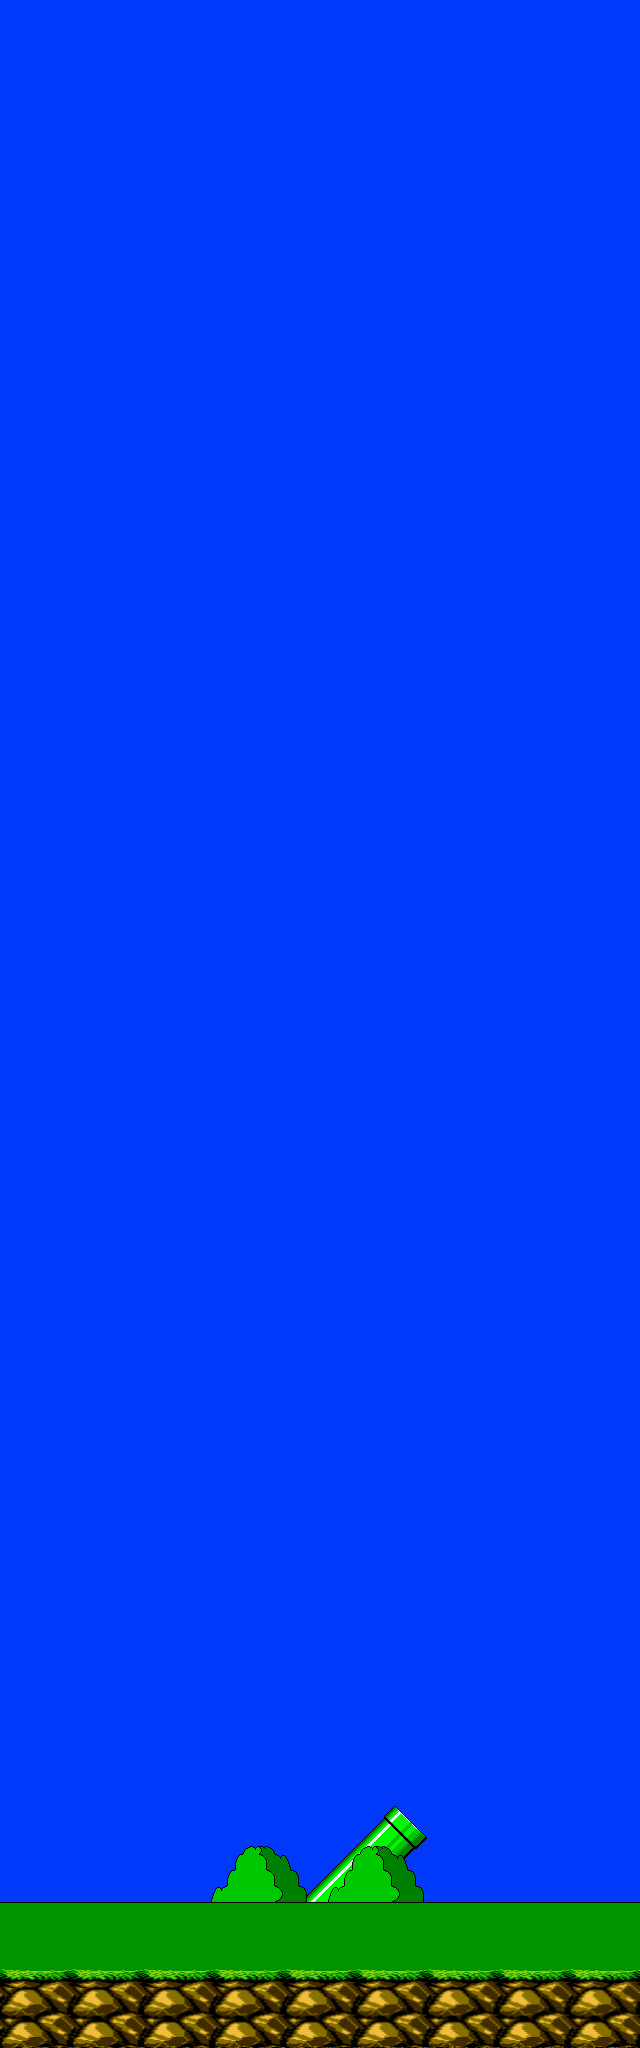
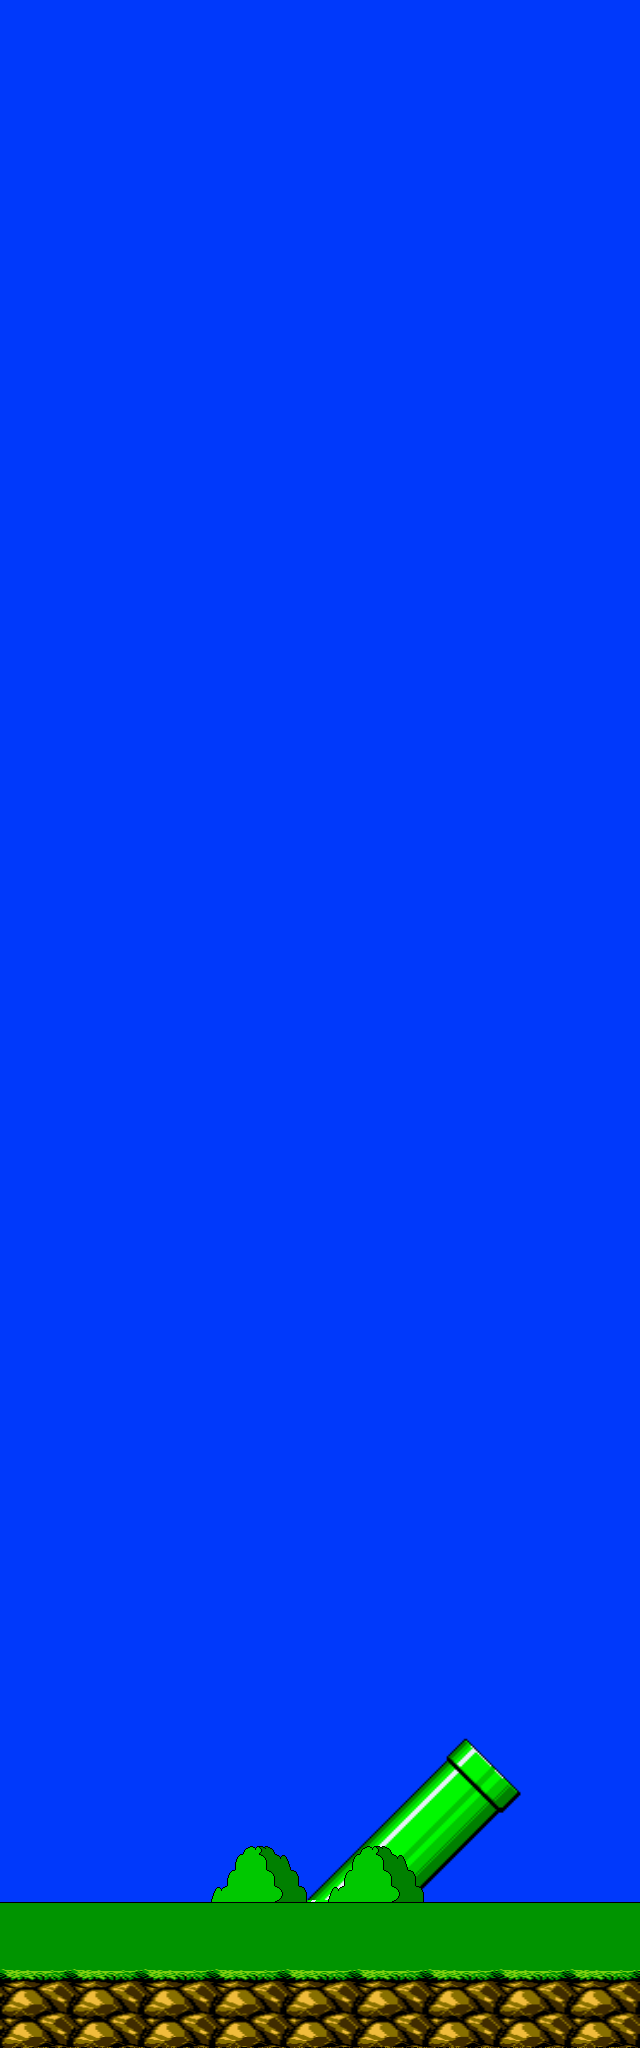
graphics: back3.png, back5-8.png, fixed line bug in the sky, tweeked spawner

Changed region(s): [[0.5625, 0.8438, 0.8125, 0.9375], [0.4688, 0.9062, 0.5625, 0.9375]]

diff --git a/Berzerk/Berzerk/Level.cs b/Berzerk/Berzerk/Level.cs
@@ -23,6 +23,10 @@ namespace Berzerk
         private ScrollingBackground m_back2;
         private ScrollingBackground m_back3;
         private ScrollingBackground m_back4;
+        private ScrollingBackground m_back5;
+        private ScrollingBackground m_back6;
+        private ScrollingBackground m_back7;
+        private ScrollingBackground m_back8;
         // Sky
         private ScrollingBackground m_sky1;
         private ScrollingBackground m_sky2;
@@ -43,7 +47,7 @@ namespace Berzerk
         Vector2             m_batterPos;
 
         // Projectile
-        //Projectile m_projectile;
+        Projectile m_projectile;
  
         // StaticTextures
         Texture2D mineText;
@@ -91,18 +95,22 @@ namespace Berzerk
             m_back2 = new ScrollingBackground(content.Load<Texture2D>("Graphics/Backgrounds/back2"), new Rectangle(640, -1328, 640, 2048));
             m_back3 = new ScrollingBackground(content.Load<Texture2D>("Graphics/Backgrounds/back3"), new Rectangle(1280, -1328, 640, 2048));
             m_back4 = new ScrollingBackground(content.Load<Texture2D>("Graphics/Backgrounds/back4"), new Rectangle(1920, -1328, 640, 2048));
+            m_back5 = new ScrollingBackground(content.Load<Texture2D>("Graphics/Backgrounds/back5"), new Rectangle(2560, -1328, 640, 2048));
+            m_back6 = new ScrollingBackground(content.Load<Texture2D>("Graphics/Backgrounds/back6"), new Rectangle(3200, -1328, 640, 2048));
+            m_back7 = new ScrollingBackground(content.Load<Texture2D>("Graphics/Backgrounds/back7"), new Rectangle(3840, -1328, 640, 2048));
+            m_back8 = new ScrollingBackground(content.Load<Texture2D>("Graphics/Backgrounds/back8"), new Rectangle(4480, -1328, 640, 2048));
             // Sky1
             m_sky1 = new ScrollingBackground(content.Load<Texture2D>("Graphics/Backgrounds/sky"), new Rectangle(0, -3376, 1280, 2048));
             m_sky2 = new ScrollingBackground(content.Load<Texture2D>("Graphics/Backgrounds/sky"), new Rectangle(0, -5424, 1280, 2048));
             m_sky3 = new ScrollingBackground(content.Load<Texture2D>("Graphics/Backgrounds/sky"), new Rectangle(0, -7472, 1280, 2048));
             m_sky4 = new ScrollingBackground(content.Load<Texture2D>("Graphics/Backgrounds/sky"), new Rectangle(0, -9520, 1280, 2048));
             m_sky5 = new ScrollingBackground(content.Load<Texture2D>("Graphics/Backgrounds/sky"), new Rectangle(0, -11560, 1280, 2048));
-            m_sky6 = new ScrollingBackground(content.Load<Texture2D>("Graphics/Backgrounds/sky"), new Rectangle(0, -13616, 1280, 2048));
-            m_sky7 = new ScrollingBackground(content.Load<Texture2D>("Graphics/Backgrounds/sky"), new Rectangle(0, -15664, 1280, 2048));
-            m_sky8 = new ScrollingBackground(content.Load<Texture2D>("Graphics/Backgrounds/sky"), new Rectangle(0, -17712, 1280, 2048));
-            m_sky9 = new ScrollingBackground(content.Load<Texture2D>("Graphics/Backgrounds/sky"), new Rectangle(0, -19760, 1280, 2048));
+            m_sky6 = new ScrollingBackground(content.Load<Texture2D>("Graphics/Backgrounds/sky"), new Rectangle(0, -13606, 1280, 2048));
+            m_sky7 = new ScrollingBackground(content.Load<Texture2D>("Graphics/Backgrounds/sky"), new Rectangle(0, -15654, 1280, 2048));
+            m_sky8 = new ScrollingBackground(content.Load<Texture2D>("Graphics/Backgrounds/sky"), new Rectangle(0, -17702, 1280, 2048));
+            m_sky9 = new ScrollingBackground(content.Load<Texture2D>("Graphics/Backgrounds/sky"), new Rectangle(0, -19750, 1280, 2048));
             // Space
-            m_space1 = new ScrollingBackground(content.Load<Texture2D>("Graphics/Backgrounds/space"), new Rectangle(0, -21808, 1280, 2048));
+            m_space1 = new ScrollingBackground(content.Load<Texture2D>("Graphics/Backgrounds/space"), new Rectangle(0, -21798, 1280, 2048));
 
             m_plateau = new ScrollingBackground(content.Load<Texture2D>("Graphics/Backgrounds/Plateau"), new Rectangle(0, 360, 360, 360));
 
@@ -118,7 +126,7 @@ namespace Berzerk
             waspText  = content.Load<Texture2D>("Graphics/wasp");
             powerText = content.Load<Texture2D>("Graphics/powerUp");
 
-            boom = new StaticTexture(content.Load<Texture2D>("Graphics/boom"), new Vector2(m_graphics.Viewport.Width + 100, m_graphics.Viewport.Height - 120));
+            boom = new StaticTexture(content.Load<Texture2D>("Graphics/boom"), new Vector2(m_graphics.Viewport.Width + 100, 625 - 120));
 
             rand = new Random();
             textures = new StaticTexture[NUM_TEXTURES];
@@ -162,17 +170,27 @@ namespace Berzerk
             // Backgrounds
             // Ground
             if (m_back1.rectangle.X + m_back1.texture.Width <= 0)
-                m_back1.rectangle.X = m_back4.rectangle.X + m_back4.texture.Width;
+                m_back1.rectangle.X = m_back8.rectangle.X + m_back8.texture.Width;
             if (m_back2.rectangle.X + m_back2.texture.Width <= 0)
                 m_back2.rectangle.X = m_back1.rectangle.X + m_back3.texture.Width;
             if (m_back3.rectangle.X + m_back3.texture.Width <= 0)
                 m_back3.rectangle.X = m_back2.rectangle.X + m_back2.texture.Width;
             if (m_back4.rectangle.X + m_back4.texture.Width <= 0)
                 m_back4.rectangle.X = m_back3.rectangle.X + m_back3.texture.Width;
+           
+            if (m_back5.rectangle.X + m_back5.texture.Width <= 0)
+                m_back5.rectangle.X = m_back4.rectangle.X + m_back4.texture.Width;
+            if (m_back6.rectangle.X + m_back6.texture.Width <= 0)
+                m_back6.rectangle.X = m_back5.rectangle.X + m_back5.texture.Width;
+            if (m_back7.rectangle.X + m_back7.texture.Width <= 0)
+                m_back7.rectangle.X = m_back6.rectangle.X + m_back6.texture.Width;
+            if (m_back8.rectangle.X + m_back8.texture.Width <= 0)
+                m_back8.rectangle.X = m_back7.rectangle.X + m_back7.texture.Width;
         }
 
         public void Update(GameTime gameTime, Projectile projectile)
         {
+            m_projectile = projectile;
             // Backgrounds
             UpdateBackgrounds();
 
@@ -182,6 +200,10 @@ namespace Berzerk
                 m_back2.Update((int)projectile.XVelocity);
                 m_back3.Update((int)projectile.XVelocity);
                 m_back4.Update((int)projectile.XVelocity);
+                m_back5.Update((int)projectile.XVelocity);
+                m_back6.Update((int)projectile.XVelocity);
+                m_back7.Update((int)projectile.XVelocity);
+                m_back8.Update((int)projectile.XVelocity);
                 if (m_plateau.rectangle.X + m_plateau.texture.Width > 0)
                 {
                     m_plateau.Update((int)projectile.XVelocity);
@@ -198,7 +220,6 @@ namespace Berzerk
             {
                 CheckTexturePositions();
 
-                // Fixa att textures åker när allt är stilla, när simon fixat mätaren
                 if (projectile.XVelocity > 0)
                 {
                     if (time >= 1)
@@ -209,13 +230,13 @@ namespace Berzerk
 
                     for (int i = 0; i < NUM_TEXTURES; i++)
                     {
+                        if (boom.m_isActive)
+                            boom.Update(gameTime, (int)projectile.XVelocity);
+
                         if (textures[i].GetType() == typeof(Wasp))
                             ((Wasp)textures[i]).Update(gameTime, (int)projectile.XVelocity);
                         else
                             textures[i].Update(gameTime, (int)projectile.XVelocity);
-
-                        if (boom.m_isActive)
-                            boom.Update(gameTime, (int)projectile.XVelocity);
                     }
 
                     if (boom.m_position.X + boom.m_texture.Width <= 0)
@@ -237,6 +258,10 @@ namespace Berzerk
             m_back2.Draw(spriteBatch);
             m_back3.Draw(spriteBatch);
             m_back4.Draw(spriteBatch);
+            m_back5.Draw(spriteBatch);
+            m_back6.Draw(spriteBatch);
+            m_back7.Draw(spriteBatch);
+            m_back8.Draw(spriteBatch);
             // Sky
             m_sky1.Draw(spriteBatch);
             m_sky2.Draw(spriteBatch);
@@ -289,16 +314,26 @@ namespace Berzerk
             m_batter.Load(m_content, "Graphics/BatterHit", 2, 3);
         }
 
+        // SPAWNER
         private void SpawnTexture()
         {
             bool valid = false;
             int num = 0;
-            int randPos= 0;
             while (!valid)
             {
                 num = rand.Next(0, 29);
                 if (textures[num].m_isActive == false)
-                    valid = true;
+                {
+                    if (textures[num].GetType() == typeof(PowerUp))
+                    {
+                        if (m_projectile.m_position.Y < -17712)
+                        {
+                            valid = true;
+                        }
+                    }
+                    else
+                        valid = true;
+                }
             }
   
             if (textures[num].GetType() == typeof(Mine))
@@ -310,24 +345,44 @@ namespace Berzerk
                 textures[num].m_isActive = true;
                 textures[num].IsHit = false;
             }
-            if (textures[num].GetType() == typeof(Cloud))
+            if (textures[num].GetType() == typeof(Cloud))       // CLOUD
             {
+                int offset;
+                int spawnPos;
+                if (m_projectile.m_position.Y > 500)
+                    spawnPos = rand.Next(0, 100);
+                else
+                {
+                    offset = rand.Next(-360, 360);
+                    spawnPos = (int)m_projectile.m_position.Y + offset;
+                    if (spawnPos > 100)
+                        spawnPos = 100;
+                }
+
                 textures[num].m_isActive = true;
-                randPos = rand.Next( 0, 400 );
-                textures[num].m_position.Y = randPos;
+                textures[num].m_position.Y = spawnPos;
             }
             if (textures[num].GetType() == typeof(Wasp))
             {
+                int offset = rand.Next(-360, 360);
+                int spawnPos = (int)m_projectile.m_position.Y + offset;
+                if (spawnPos > 368)
+                {
+                    offset = rand.Next(-70, 10);
+                    spawnPos = 368 + offset;
+                }
+
                 textures[num].m_isActive = true;
-                randPos = rand.Next(0, 600);
-                textures[num].m_position.Y = randPos;
+                textures[num].m_position.Y = spawnPos;
                 textures[num].IsHit = false;
             }
             if (textures[num].GetType() == typeof(PowerUp))
             {
+                int offset = rand.Next(-500, 500);
+                int spawnPos = (int)m_projectile.m_position.Y + offset;
                 textures[num].m_isActive = true;
-                randPos = rand.Next(0, 600);
-                textures[num].m_position.Y = randPos;
+                textures[num].m_position.Y = spawnPos;
+                textures[num].IsHit = false;
             }
         }
 

diff --git a/Berzerk/Berzerk/TestGame.cs b/Berzerk/Berzerk/TestGame.cs
@@ -190,7 +190,7 @@ namespace Berzerk
                 else
                     m_projectile.Speed = m_powerGauge.Power / 2 * Player.Modifier;
                 {
-                    drawPowerHit = true;
+                    //drawPowerHit = true;
                     m_projectile.Fire();
                 }
             }
